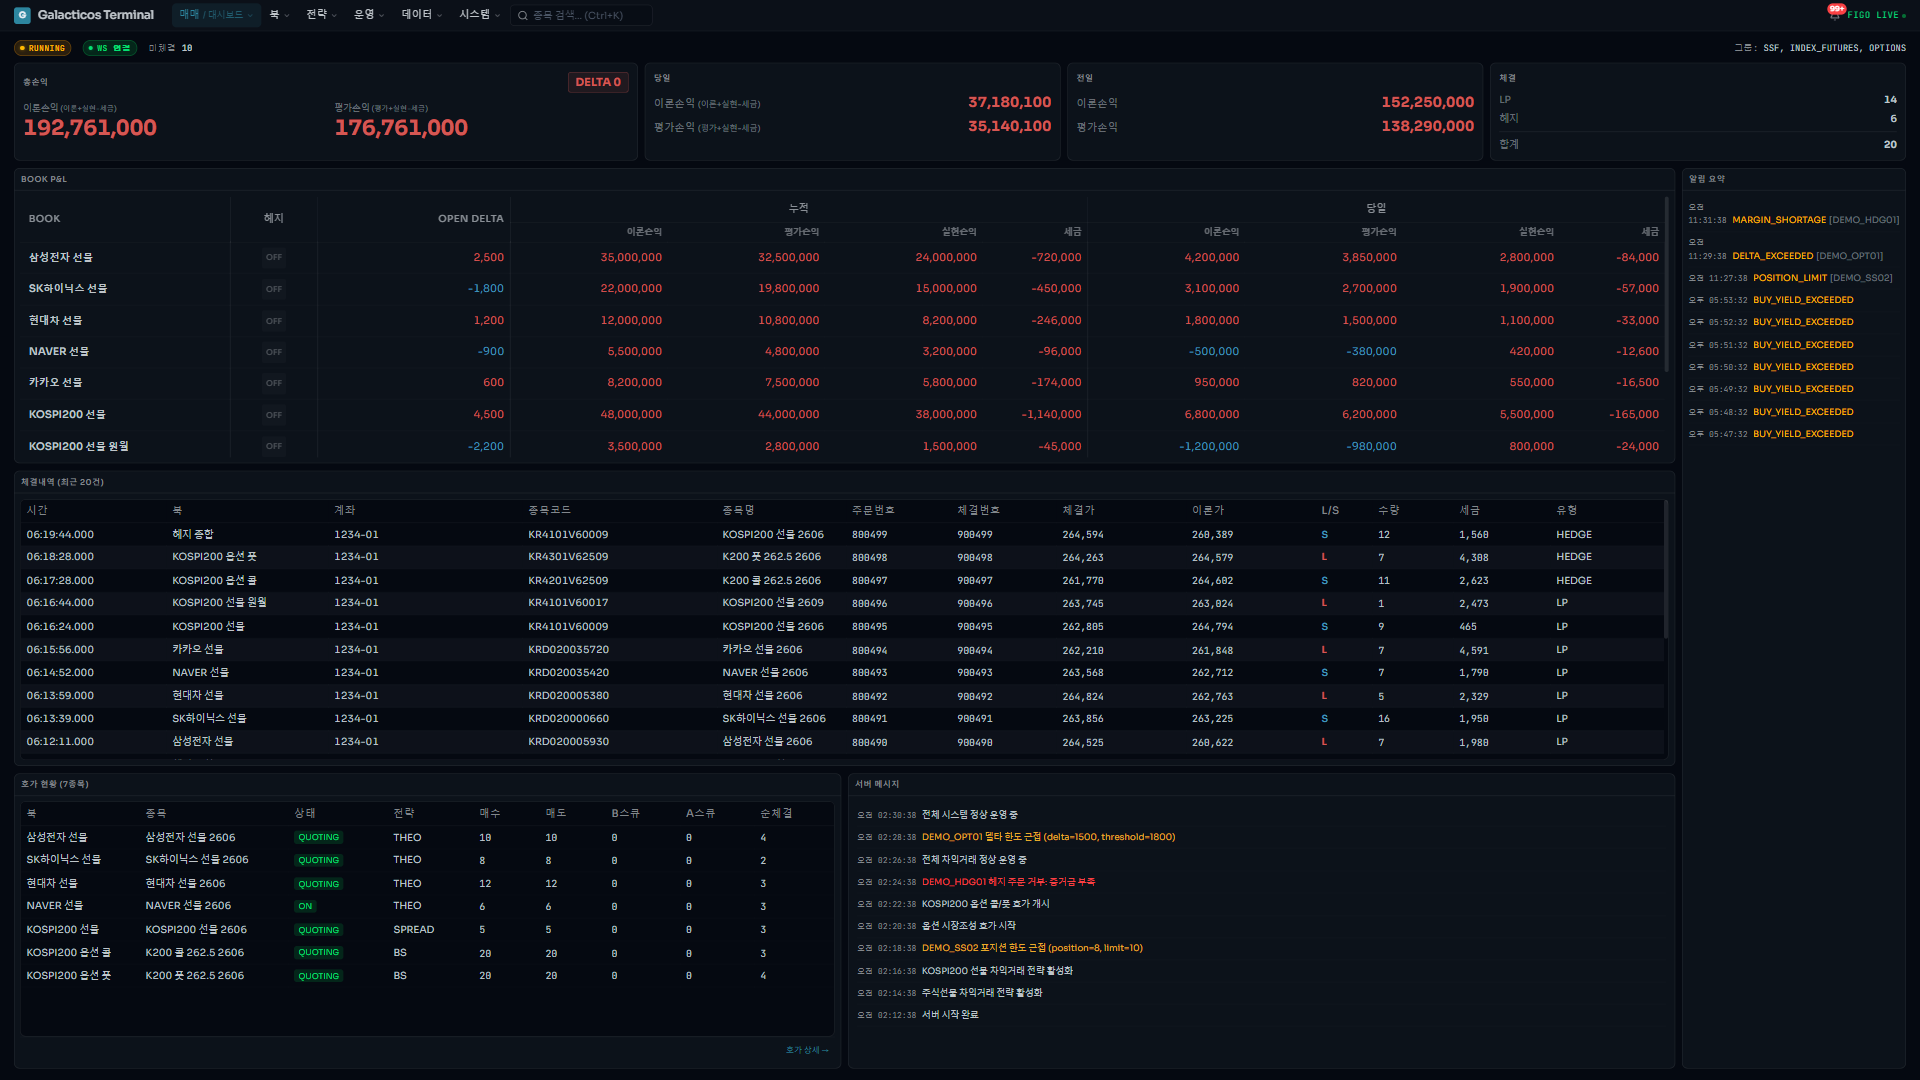
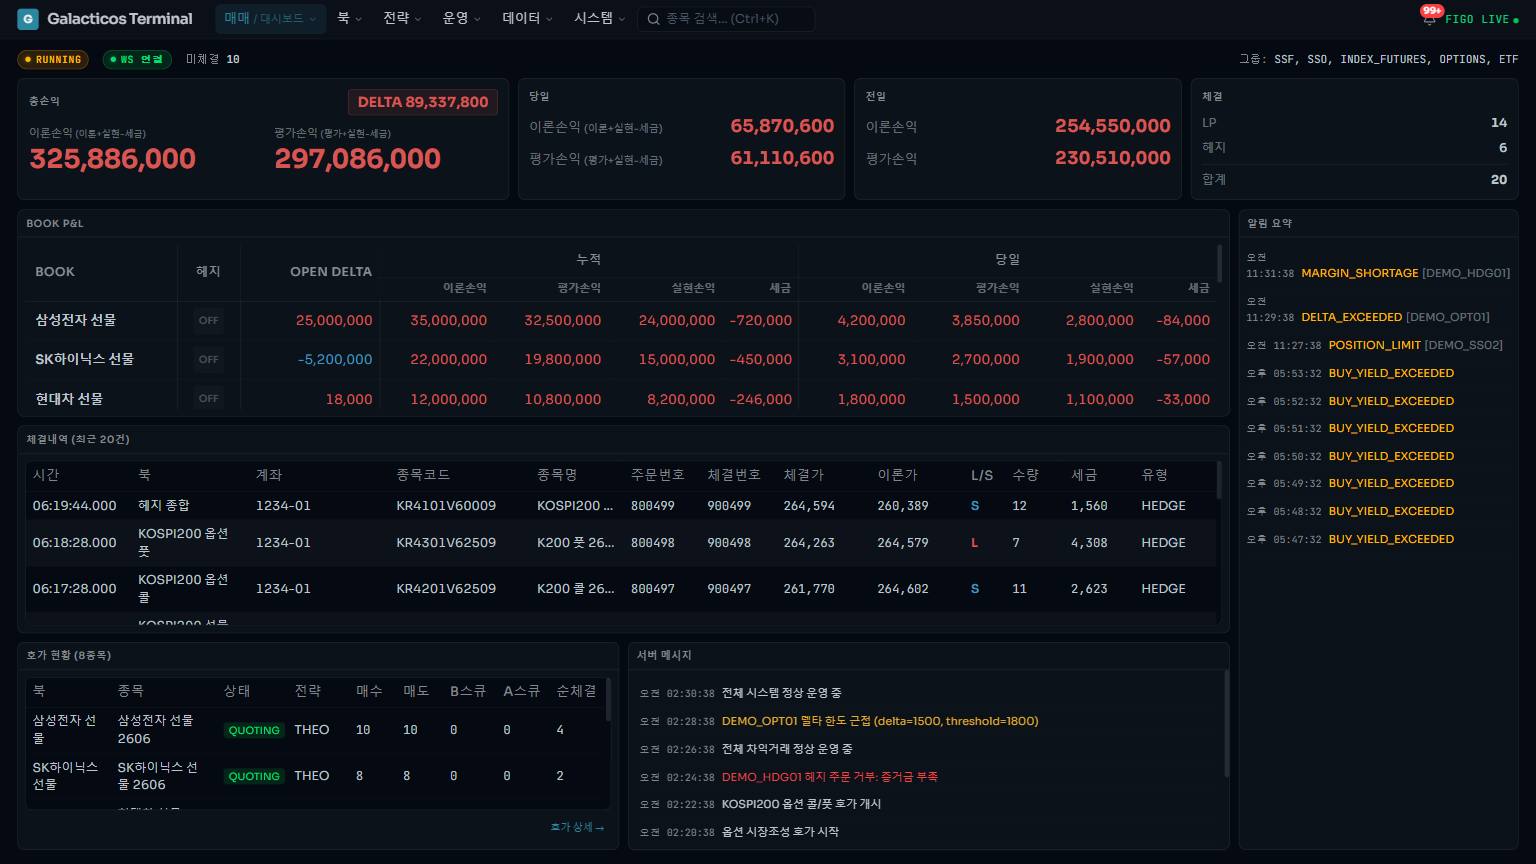
Update screenshots: horizontal layout, ~100M delta, SSO+ETF books
- Screenshots side-by-side (grid 1fr 1fr)
- Dashboard delta ~89M (realistic net position)
- Demo data: SSF, SSO, INDEX_FUTURES, OPTIONS, ETF groups
- No real data in screenshots

diff --git a/style.css b/style.css
@@ -537,13 +537,19 @@ body {
 /* Screenshots */
 .project__screenshots {
   display: grid;
-  grid-template-columns: 1fr;
-  gap: 20px;
+  grid-template-columns: 1fr 1fr;
+  gap: 16px;
   margin-top: 24px;
 }
 
 .project__screenshots .project__screenshot {
   width: 100%;
+}
+
+@media (max-width: 768px) {
+  .project__screenshots {
+    grid-template-columns: 1fr;
+  }
 }
 
 .project__screenshot {
